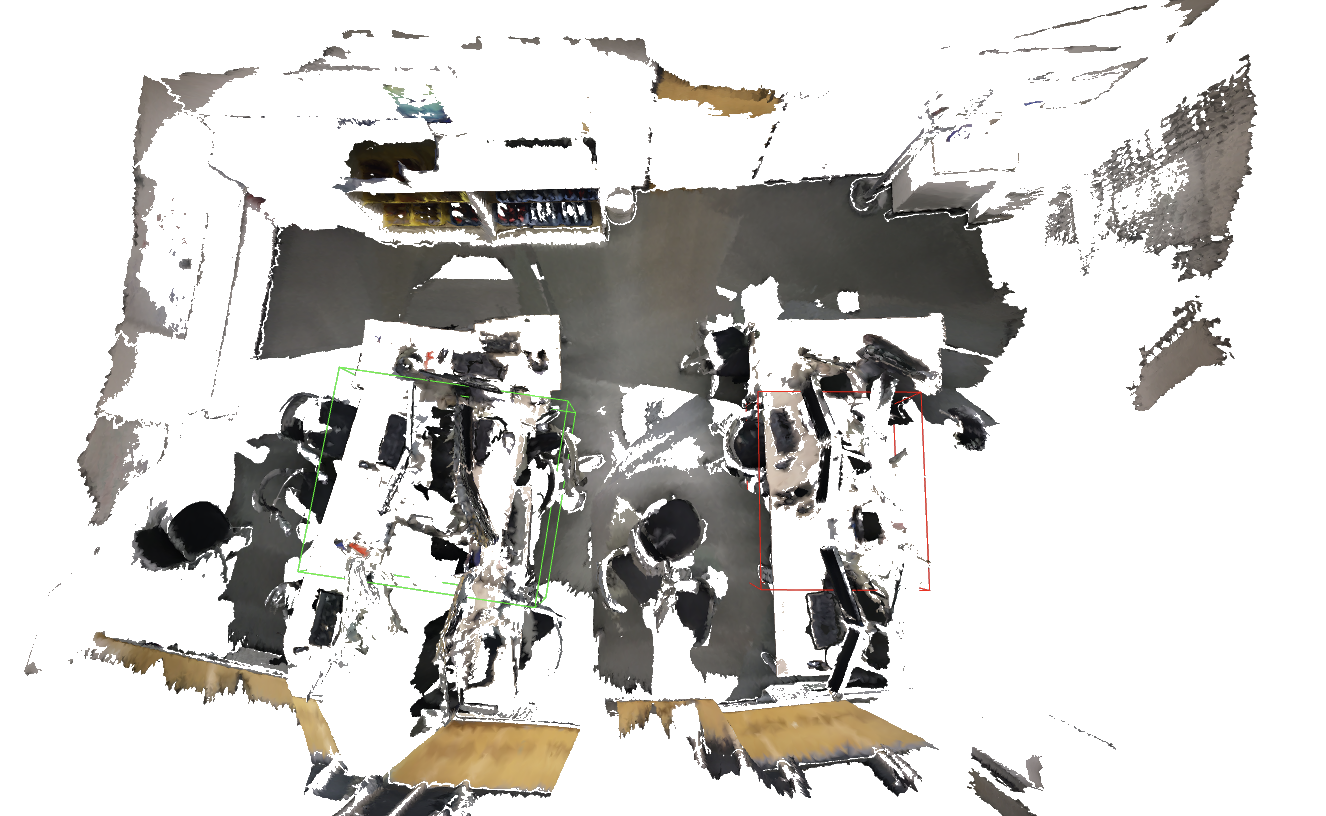
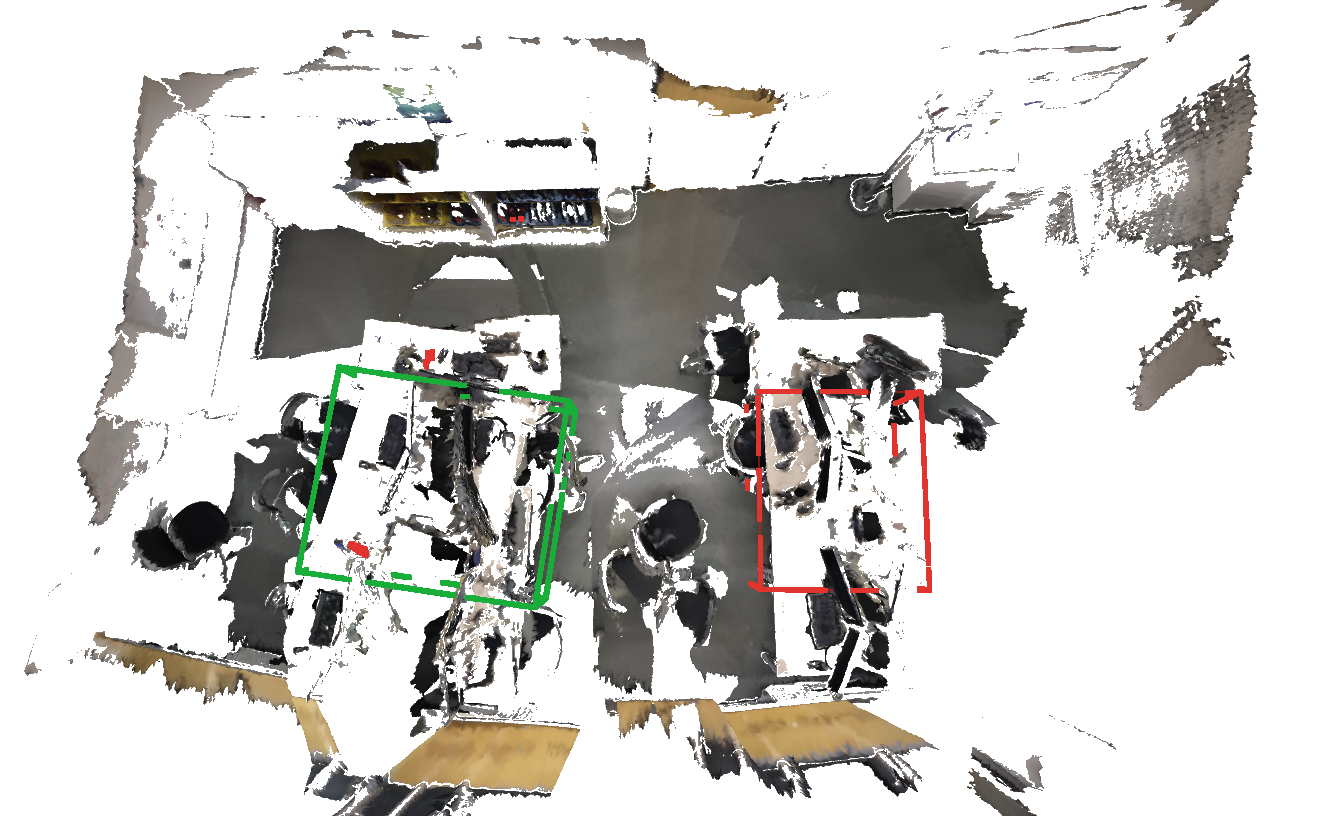
Emphasize qualitative prediction boxes

diff --git a/app/page.tsx b/app/page.tsx
@@ -77,7 +77,7 @@ const stages = [
 ];
 
 const qualitativeExamples = [
-  { id: 1, query: 'Facing the wall with cards, the couch to the lower left corner.', alt: 'Top-down scene with a predicted couch highlighted in green and a competing couch in red' },
+  { id: 1, query: 'Facing the wall with cards, the couch to the lower left corner.', alt: 'Top-down scene with a predicted couch highlighted in green and a distractor couch in red' },
   { id: 2, query: 'Facing the door, the table on the left.', alt: 'Top-down office scene with the predicted left table highlighted in green' },
   { id: 3, query: 'When standing in the middle of the room facing the windows, the correct one is on the left.', alt: 'Top-down room scene with two candidate windows and the left one highlighted in green' },
   { id: 4, query: 'Facing the two large windows, the window on the left.', alt: 'Top-down office scene with two large windows marked as candidates' },

diff --git a/scripts/emphasize_qualitative_boxes.py b/scripts/emphasize_qualitative_boxes.py
@@ -1,0 +1,55 @@
+#!/usr/bin/env python3
+"""Thicken the red/green 3D box annotations without altering scene geometry."""
+
+from __future__ import annotations
+
+import argparse
+from pathlib import Path
+
+from PIL import Image, ImageFilter
+
+
+def color_masks(image: Image.Image) -> tuple[Image.Image, Image.Image]:
+    red = Image.new("L", image.size)
+    green = Image.new("L", image.size)
+    red_pixels = red.load()
+    green_pixels = green.load()
+
+    for y in range(image.height):
+        for x in range(image.width):
+            r, g, b, _ = image.getpixel((x, y))
+            if r > 170 and r - g > 60 and r - b > 50 and g < 160:
+                red_pixels[x, y] = 255
+            if g > 140 and g - r > 35 and g - b > 20 and r < 170:
+                green_pixels[x, y] = 255
+
+    return red, green
+
+
+def emphasize(source: Path, destination: Path) -> None:
+    image = Image.open(source).convert("RGBA")
+    red_mask, green_mask = color_masks(image)
+
+    # Five pixels at source resolution remains legible after the website's
+    # card-scale downsampling while preserving the original box geometry.
+    red_mask = red_mask.filter(ImageFilter.MaxFilter(5))
+    green_mask = green_mask.filter(ImageFilter.MaxFilter(5))
+
+    image.paste((226, 52, 47, 255), mask=red_mask)
+    image.paste((25, 174, 58, 255), mask=green_mask)
+    destination.parent.mkdir(parents=True, exist_ok=True)
+    image.save(destination, optimize=True)
+
+
+def main() -> None:
+    parser = argparse.ArgumentParser()
+    parser.add_argument("source", type=Path, help="Directory containing image1.png ... image10.png")
+    parser.add_argument("destination", type=Path, help="Website output directory")
+    args = parser.parse_args()
+
+    for index in range(1, 11):
+        emphasize(args.source / f"image{index}.png", args.destination / f"image{index}.png")
+
+
+if __name__ == "__main__":
+    main()
